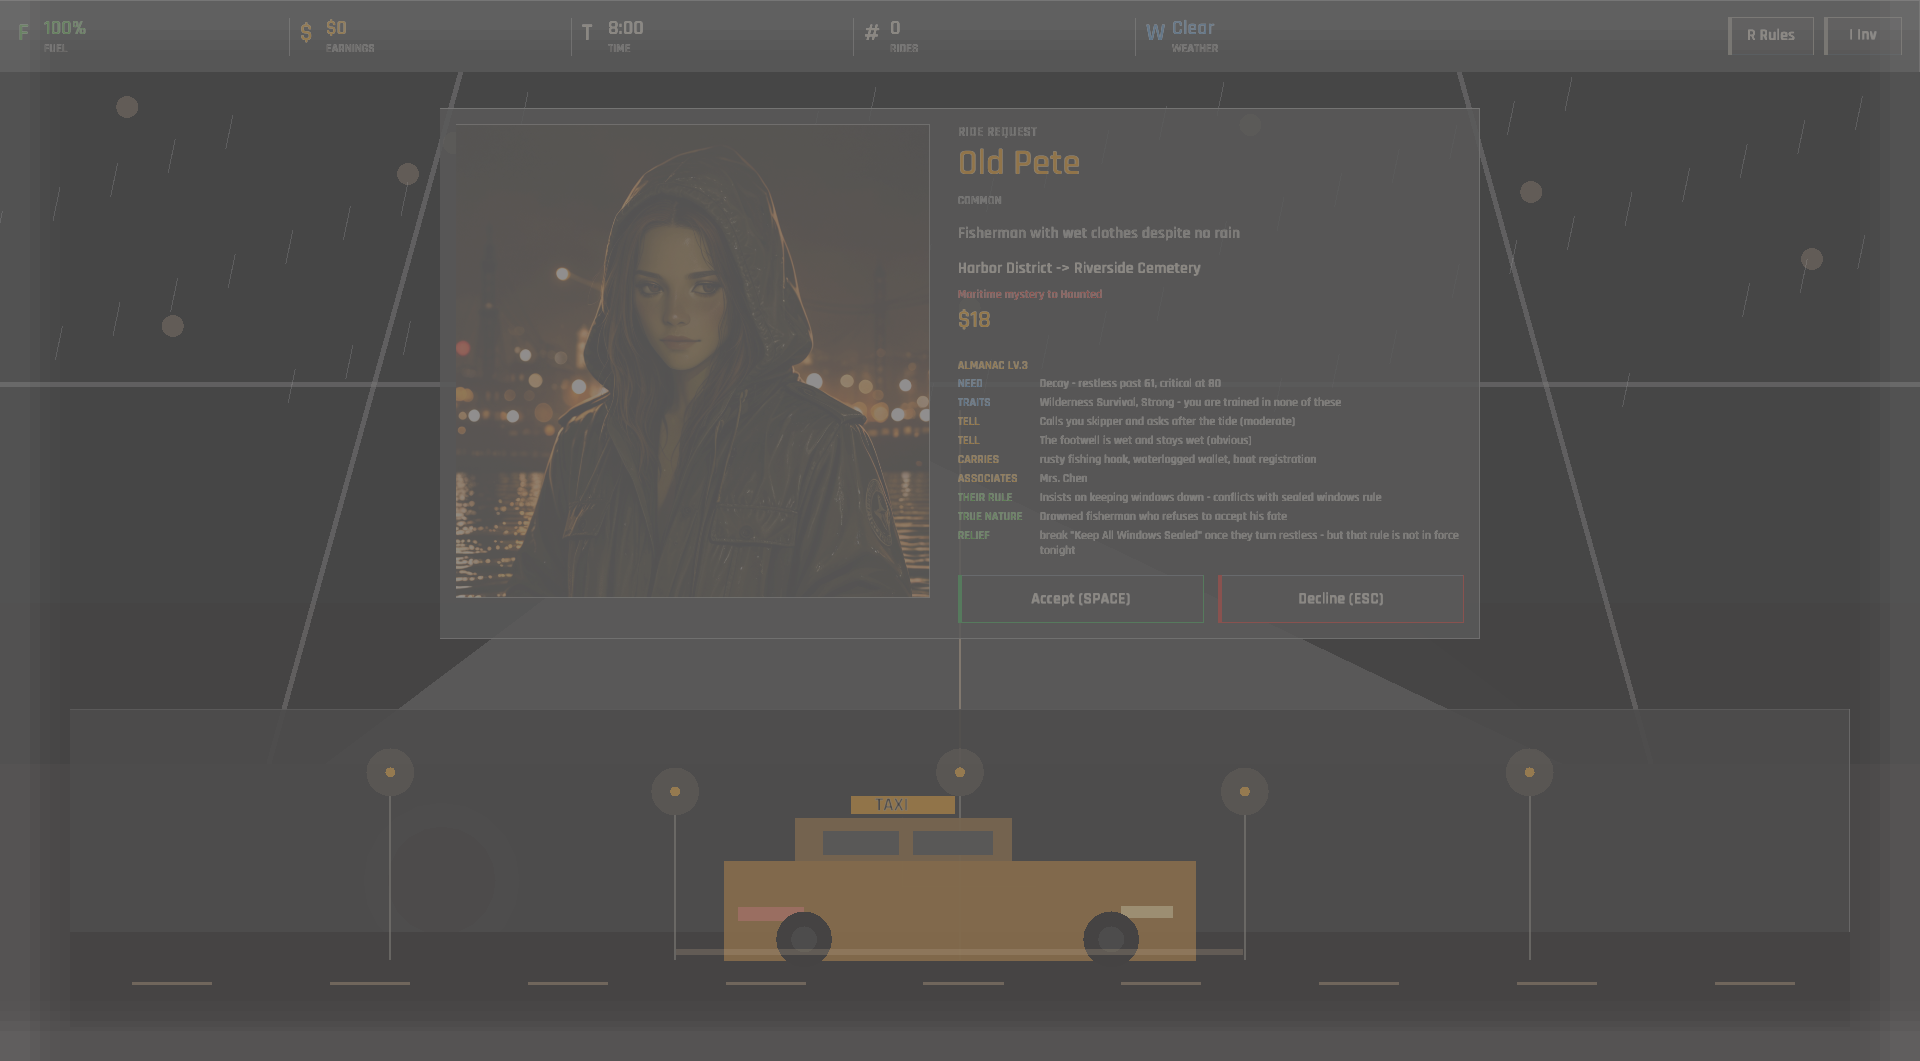
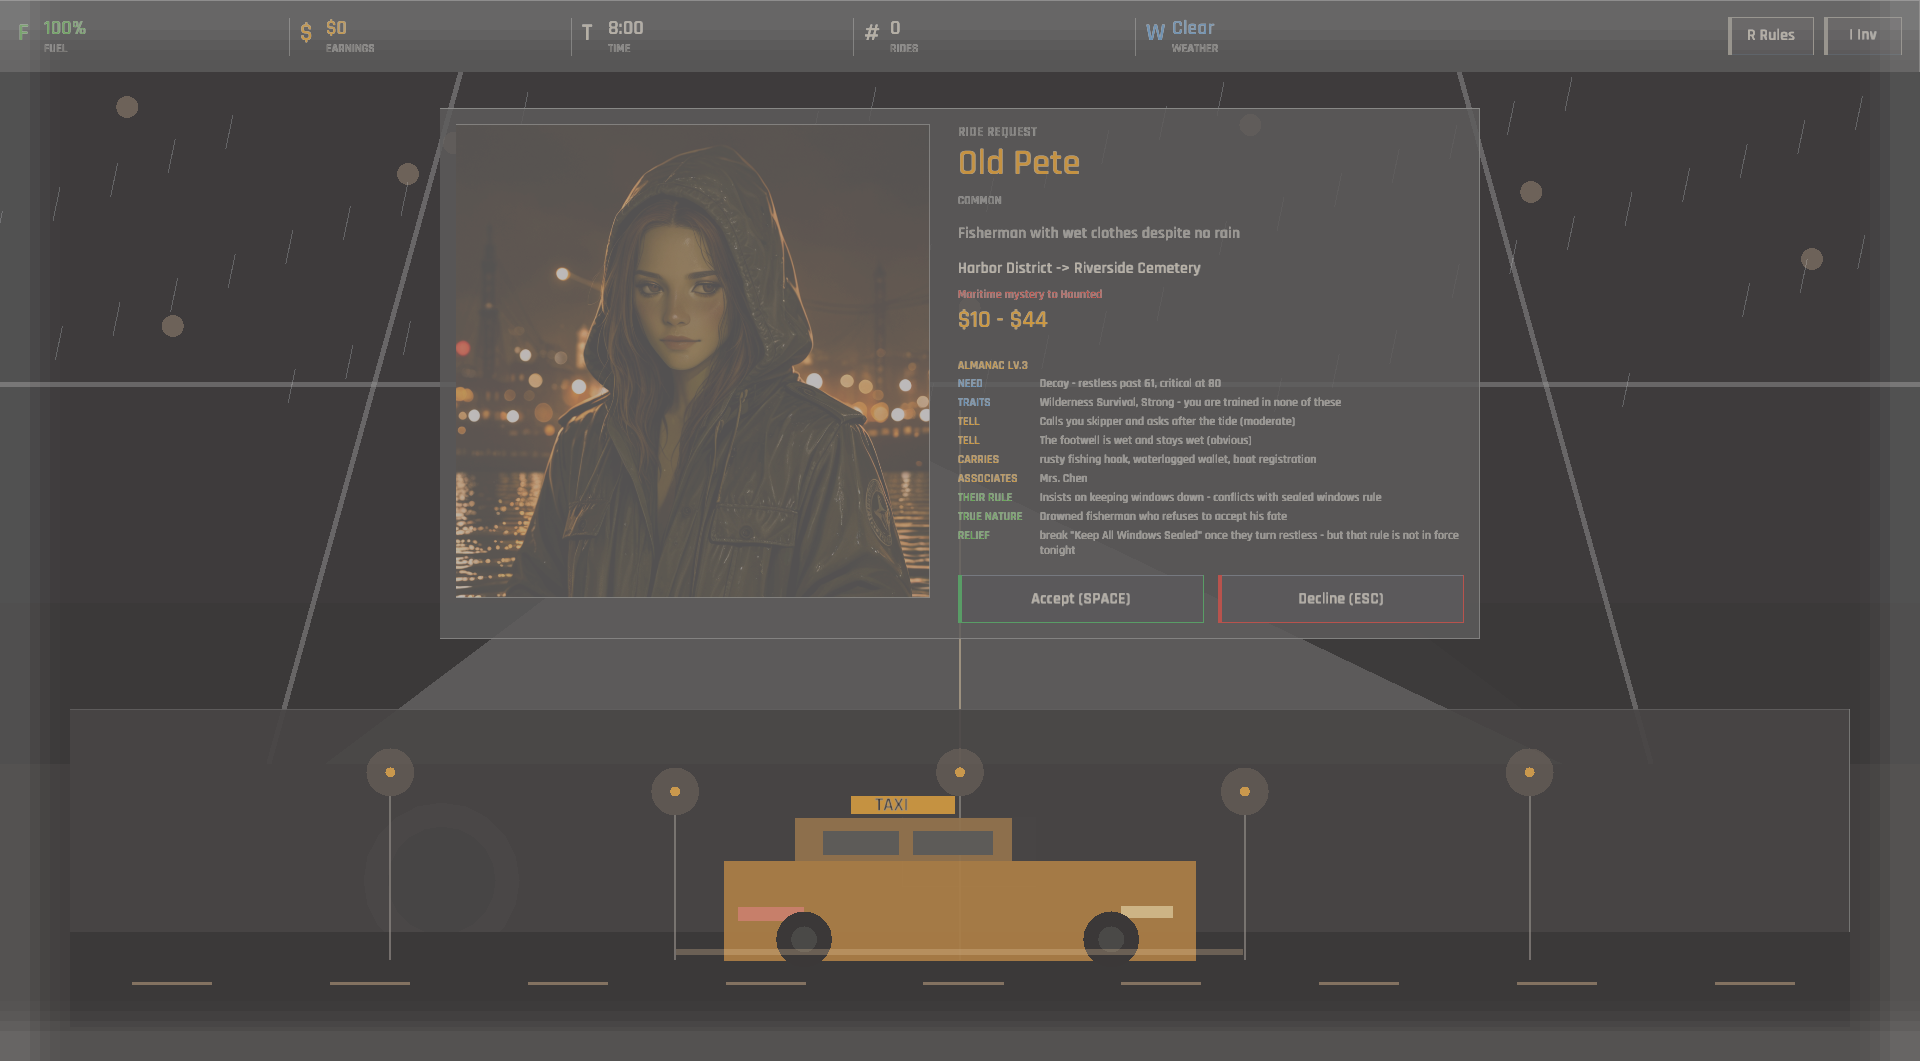
The offer quotes what the ride is worth, not its authored base
Following the pattern from last night -- a screen keeping its own copy of a
calculation the engine also does. The ride offer printed `passenger.fare`, the
raw authored number, while the payout runs it through the road's multiplier, the
passenger's feeling about that road, the repeat-route penalty, the driver's
standing with them, the destination's modifier and the fare skills. Every one of
those is settled by the time the offer is on screen; the destination is printed on
the same card.

Old Pete now reads "$10 - $44" where he read "$18". That spread is the fact that
was missing: for this fare the choice of road can more than quadruple the payout,
and both fare skills and a Trusted standing move it further. A single number could
only ever have been right for one road.

Both ends come from the engine's own fare function, called once per road, so the
offer cannot drift from the payout.

Except that it could, and my first attempt did. `calculate_fare` rolls a wobble of
up to five dollars either way on every call, so calling it once per road gave four
samples rather than four roads -- and because the range is built while drawing, the
number on screen would have changed every frame. My own bracket test caught it,
failing with "Scenic pays 34, outside the quoted 5-33", which is the only reason I
am not shipping a flickering fare. The deterministic part is now
`fare_before_variation`, the roll and the floor are named constants both sides
[…]

diff --git a/src/engine/route_service.rs b/src/engine/route_service.rs
@@ -1,6 +1,7 @@
 //! Route cost calculation service.
 
 use crate::data::*;
+use crate::engine::GameEngine;
 use crate::state::{GameState, PlayerStats};
 use std::collections::hash_map::DefaultHasher;
 use std::collections::HashMap;
@@ -60,6 +61,64 @@ impl RouteService {
             &stats.route_mastery_map(),
             state.current_passenger.as_ref(),
             &crate::engine::SkillModifiers::from_unlocked(&data.skills, &stats.unlocked_skills),
+        )
+    }
+
+    /// What a passenger would pay on each road, smallest and largest.
+    ///
+    /// The ride offer showed `passenger.fare`, the raw authored base, while the
+    /// payout runs it through the route's multiplier, the passenger's feeling
+    /// about that route, the repeat-route penalty, the driver's standing with
+    /// them, the destination's modifier and the fare skills. Every one of those
+    /// is already known when the offer is on screen -- the destination is
+    /// printed on the same card -- so the number the driver was shown could be
+    /// most of a third under what they would actually earn.
+    ///
+    /// Both ends come from `GameEngine::calculate_fare` itself, called once per
+    /// route, so the offer cannot drift from the payout. The spread is the road
+    /// not yet chosen and nothing else.
+    pub fn fare_range(
+        passenger: &Passenger,
+        state: &GameState,
+        data: &GameData,
+        stats: &PlayerStats,
+    ) -> (u32, u32) {
+        let skill_mods =
+            crate::engine::SkillModifiers::from_unlocked(&data.skills, &stats.unlocked_skills);
+        let destination_fare_modifier = data
+            .get_location(&passenger.destination)
+            .map(|location| location.fare_modifier)
+            .unwrap_or(1.0)
+            * skill_mods.fare_mult;
+        let reputation = state.passenger_reputation.get(&passenger.id);
+
+        let (low, high) = [
+            RouteType::Normal,
+            RouteType::Shortcut,
+            RouteType::Scenic,
+            RouteType::Police,
+        ]
+        .into_iter()
+        .map(|route| {
+            GameEngine::fare_before_variation(
+                passenger.fare,
+                route,
+                passenger,
+                state.consecutive_route_streak.as_ref(),
+                reputation,
+                &data.constants,
+                destination_fare_modifier,
+            )
+        })
+        .fold((f32::MAX, 0.0_f32), |(low, high), fare| {
+            (low.min(fare), high.max(fare))
+        });
+
+        // Widened by the meter's wobble at both ends, so the payout always
+        // lands inside the range the driver was quoted.
+        (
+            (low - GameEngine::FARE_VARIATION).max(GameEngine::MINIMUM_FARE) as u32,
+            (high + GameEngine::FARE_VARIATION).max(GameEngine::MINIMUM_FARE) as u32,
         )
     }
 
@@ -330,6 +389,139 @@ impl RouteService {
         };
 
         applies_to.eq_ignore_ascii_case(route.label()) || applies_to.eq_ignore_ascii_case("all")
+    }
+}
+
+#[cfg(test)]
+mod fare_tests {
+    use super::RouteService;
+    use crate::data::loader::{load_constants, load_passengers, GameData};
+    use crate::state::{GameState, PlayerStats, RelationshipLevel};
+
+    fn offer() -> (GameData, GameState, PlayerStats, crate::data::Passenger) {
+        let data = GameData::load();
+        let constants = load_constants();
+        let state = GameState::new(0.0, &constants.game_constants);
+        let passenger = load_passengers().into_iter().next().expect("a roster");
+        (data, state, PlayerStats::new(), passenger)
+    }
+
+    /// The offer quotes a range, because the road is not chosen yet and the
+    /// four of them pay differently. A single number could only ever be right
+    /// for one road.
+    #[test]
+    fn the_four_roads_do_not_all_pay_the_same() {
+        let (data, state, stats, passenger) = offer();
+        let (low, high) = RouteService::fare_range(&passenger, &state, &data, &stats);
+        assert!(low > 0, "the lowest road pays nothing");
+        assert!(
+            high > low,
+            "every road paid {low}, so the spread the offer shows is fictional"
+        );
+    }
+
+    /// Standing with a passenger reaches the quote. A Trusted fare pays more
+    /// than a stranger, and the offer said the same number for both.
+    #[test]
+    fn standing_raises_the_quoted_fare() {
+        let (data, mut state, stats, passenger) = offer();
+        let (_, stranger_high) = RouteService::fare_range(&passenger, &state, &data, &stats);
+
+        let reputation = state.get_passenger_reputation(passenger.id);
+        reputation.relationship_level = RelationshipLevel::Trusted;
+        let (_, trusted_high) = RouteService::fare_range(&passenger, &state, &data, &stats);
+
+        assert!(
+            trusted_high > stranger_high,
+            "a trusted fare quoted {trusted_high} against a stranger's {stranger_high}"
+        );
+    }
+
+    /// And so do the fare skills, which is half of what the skill tree sells.
+    #[test]
+    fn the_fare_skills_raise_the_quote() {
+        let (data, state, stats, passenger) = offer();
+        let (_, plain) = RouteService::fare_range(&passenger, &state, &data, &stats);
+
+        let mut skilled = PlayerStats::new();
+        skilled.unlocked_skills = data
+            .skills
+            .iter()
+            .filter(|skill| skill.effect.target == "fare_multiplier")
+            .map(|skill| skill.id.clone())
+            .collect();
+        assert!(
+            !skilled.unlocked_skills.is_empty(),
+            "no fare skills authored"
+        );
+        let (_, boosted) = RouteService::fare_range(&passenger, &state, &data, &skilled);
+
+        assert!(
+            boosted > plain,
+            "the fare skills quoted {boosted} against {plain}"
+        );
+    }
+
+    /// The quote has to contain whatever the payout lands on.
+    ///
+    /// This is the test that caught the first version of `fare_range`, which
+    /// called `calculate_fare` once per road. That function rolls a wobble of up
+    /// to five dollars either way on every call, so four calls were four samples
+    /// rather than four roads -- and since the range is built during drawing, the
+    /// number on screen would have changed every frame. It failed with "Scenic
+    /// pays 34, outside the quoted 5-33".
+    ///
+    /// Repeated because the payout is random: one draw inside the range proves
+    /// nothing about the next.
+    #[test]
+    fn the_quote_contains_whatever_the_meter_lands_on() {
+        use crate::data::RouteType;
+        use crate::engine::GameEngine;
+
+        let (data, state, stats, passenger) = offer();
+        let (low, high) = RouteService::fare_range(&passenger, &state, &data, &stats);
+        let destination_fare_modifier = data
+            .get_location(&passenger.destination)
+            .map(|location| location.fare_modifier)
+            .unwrap_or(1.0);
+
+        for _ in 0..400 {
+            for route in [
+                RouteType::Normal,
+                RouteType::Shortcut,
+                RouteType::Scenic,
+                RouteType::Police,
+            ] {
+                let paid = GameEngine::calculate_fare(
+                    passenger.fare,
+                    route,
+                    &passenger,
+                    None,
+                    None,
+                    &data.constants,
+                    destination_fare_modifier,
+                );
+                assert!(
+                    paid >= low && paid <= high,
+                    "{route:?} paid {paid}, outside the quoted {low}-{high}"
+                );
+            }
+        }
+    }
+
+    /// And the quote itself does not move between frames, which is what calling
+    /// the rolling function per road would have caused.
+    #[test]
+    fn the_quote_is_the_same_every_time_it_is_asked() {
+        let (data, state, stats, passenger) = offer();
+        let first = RouteService::fare_range(&passenger, &state, &data, &stats);
+        for _ in 0..200 {
+            assert_eq!(
+                RouteService::fare_range(&passenger, &state, &data, &stats),
+                first,
+                "the quoted fare changed between frames"
+            );
+        }
     }
 }
 

diff --git a/src/engine/game_engine.rs b/src/engine/game_engine.rs
@@ -380,7 +380,25 @@ impl GameEngine {
     }
 
     /// Calculate fare with all modifiers
-    pub fn calculate_fare(
+    /// How far either way the meter can land off the settled figure, and the
+    /// floor no fare falls below.
+    ///
+    /// Named because two places need them: the payout rolls inside this band and
+    /// the ride offer has to quote a range wide enough to contain wherever it
+    /// lands. A quote that excludes the roll is a quote the payout can fall
+    /// outside of.
+    pub const FARE_VARIATION: f32 = 5.0;
+    pub const MINIMUM_FARE: f32 = 5.0;
+
+    /// The fare before the meter's own wobble -- everything that is decided
+    /// rather than rolled.
+    ///
+    /// Split out because `calculate_fare` cannot be asked what a road pays: it
+    /// rolls each time it is called, so four calls are four samples rather than
+    /// four roads. Calling it per route from a draw function would have made the
+    /// number on screen flicker every frame.
+    #[allow(clippy::too_many_arguments)]
+    pub fn fare_before_variation(
         base_fare: u32,
         route: RouteType,
         passenger: &Passenger,
@@ -388,8 +406,7 @@ impl GameEngine {
         reputation: Option<&PassengerReputation>,
         constants: &ConstantsData,
         destination_fare_modifier: f32,
-    ) -> u32 {
-        // Route fare multiplier
+    ) -> f32 {
         let route_mult = match route {
             RouteType::Shortcut => constants.route_fares.shortcut,
             RouteType::Normal => constants.route_fares.normal,
@@ -397,13 +414,11 @@ impl GameEngine {
             RouteType::Police => constants.route_fares.police,
         };
 
-        // Passenger preference multiplier
         let pref_mult = passenger
             .get_route_preference(route)
             .map(|p| p.fare_modifier)
             .unwrap_or(1.0);
 
-        // Consecutive route penalty
         let streak_mult = if let Some(streak) = consecutive_streak {
             if streak.route_type == route && streak.count >= 2 {
                 1.0 - (streak.count - 1) as f32 * constants.consecutive_route.penalty_per_repeat
@@ -414,23 +429,41 @@ impl GameEngine {
             1.0
         };
 
-        // Reputation multiplier
         let rep_mult = reputation
             .map(|r| r.fare_multiplier(&constants.reputation))
             .unwrap_or(1.0);
 
-        // Calculate with all multipliers
-        let fare = base_fare as f32
+        base_fare as f32
             * route_mult
             * pref_mult
             * streak_mult
             * rep_mult
-            * destination_fare_modifier;
+            * destination_fare_modifier
+    }
 
-        // Add variation (±$5)
-        let variation = macroquad_toolkit::rng::gen_range(-5.0, 5.0);
+    pub fn calculate_fare(
+        base_fare: u32,
+        route: RouteType,
+        passenger: &Passenger,
+        consecutive_streak: Option<&RouteStreak>,
+        reputation: Option<&PassengerReputation>,
+        constants: &ConstantsData,
+        destination_fare_modifier: f32,
+    ) -> u32 {
+        let fare = Self::fare_before_variation(
+            base_fare,
+            route,
+            passenger,
+            consecutive_streak,
+            reputation,
+            constants,
+            destination_fare_modifier,
+        );
 
-        (fare + variation).max(5.0) as u32
+        let variation =
+            macroquad_toolkit::rng::gen_range(-Self::FARE_VARIATION, Self::FARE_VARIATION);
+
+        (fare + variation).max(Self::MINIMUM_FARE) as u32
     }
 }
 

diff --git a/src/screens/game_screens/ride_request.rs b/src/screens/game_screens/ride_request.rs
@@ -136,13 +136,27 @@ pub fn draw_ride_request(
         }
         y += 14.0;
 
-        draw_ui_text(
-            &format!("${}", passenger.fare),
-            info_x,
-            y,
-            fonts::SIZE_XL,
-            colors::ACCENT_GOLD,
-        );
+        // What this fare is worth, across the four roads. A single number here
+        // was the authored base, before standing, destination and fare skills,
+        // and the driver has to decide whether to take the ride on it.
+        let fare_text = match game_data {
+            Some(data) => {
+                let (low, high) = crate::engine::RouteService::fare_range(
+                    passenger,
+                    game_state,
+                    data,
+                    player_stats,
+                );
+                if low == high {
+                    format!("${low}")
+                } else {
+                    format!("${low} - ${high}")
+                }
+            }
+            None => format!("${}", passenger.fare),
+        };
+
+        draw_ui_text(&fare_text, info_x, y, fonts::SIZE_XL, colors::ACCENT_GOLD);
         y += 42.0;
 
         // What the almanac has bought you about this fare. Studying a
